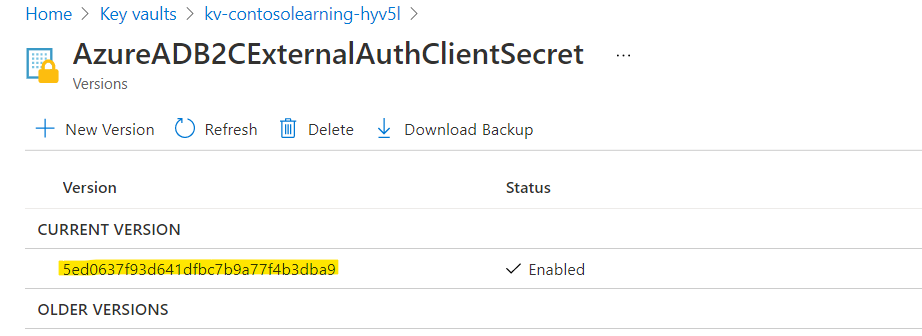
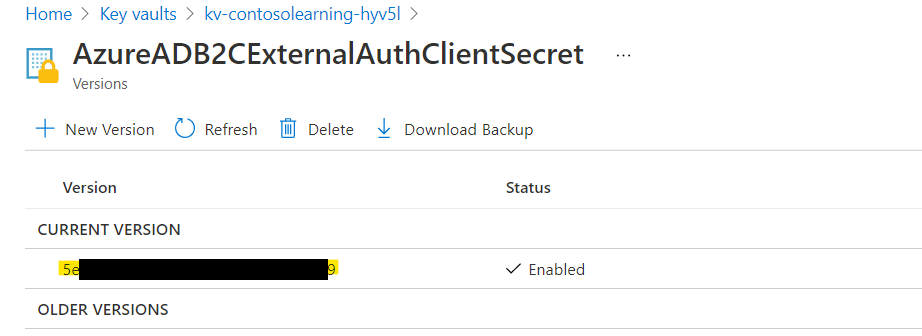
Image corrections and minor edits.

Changed region(s): [[0.0607, 0.7738, 0.3644, 0.8333]]

diff --git a/microsoft-community-training/media/Phone_Auth_Migration_Files/ADB2C.md b/microsoft-community-training/media/Phone_Auth_Migration_Files/ADB2C.md
@@ -20,7 +20,16 @@ You can create a new Azure AD B2C tenant or create an existing one based on your
 
 ### Step 2 - Create Azure AD B2C application
 
-Here are the steps an create on Azure AD B2C tenant and link the same with your training portal instance:
+ 
+
+> [!Note]  
+By the end of this section, please have the following details copied on a notepad:
+>1. Client ID
+>2. ADB2C Tenant Name
+>3. ADB2C Client Secret
+>4. Sign Up and Sign In userflow name
+
+Here are the steps an create on Azure AD B2C tenant and link the same with your training portal instance.
 
 1. Create a new Azure AD B2C application by following [**this article**](/azure/active-directory-b2c/tutorial-register-applications). Please ensure application properties are set as following:
     1. Web app / Web API - set to "Yes"
@@ -71,6 +80,14 @@ Here are the steps an create on Azure AD B2C tenant and link the same with your 
 7. Follow the [**installation article**](../../infrastructure-management/install-your-platform-instance/installation-guide-detailed-steps.md) to complete the Deployment by configuring obtained values as per the below screenshot
 
     ![Create MCT redirect](../../media/LoginIdentity11.png)
+
+Make sure you have the following details on a notepad before starting the next steps:
+
+1. Client ID
+2. ADB2C Tenant Name
+3. ADB2C Client Secret
+4. Sign Up and Sign In userflow name
+
 ### Step 3 - Configure your Identity provider
 
 Here are the steps to create policies based on the Identity Provider:
@@ -93,7 +110,7 @@ Here are the steps to create policies based on the Identity Provider:
    
 Copy and note ClientID, ClientSecret, TenantName, sign-up and sign-in user flow name while configuring ADB2C tenant.
 
-Navigate to your Application’s [**Key-Vault**](../../analytics/custom-reports/database-schema.md#accessing-key-vault):
+Navigate to CT instance Application’s [**Key-Vault**](../../analytics/custom-reports/database-schema.md#accessing-key-vault):
 
 * Click on “AzureADB2CExternalAuthClientSecret” in Secrets under settings
 
